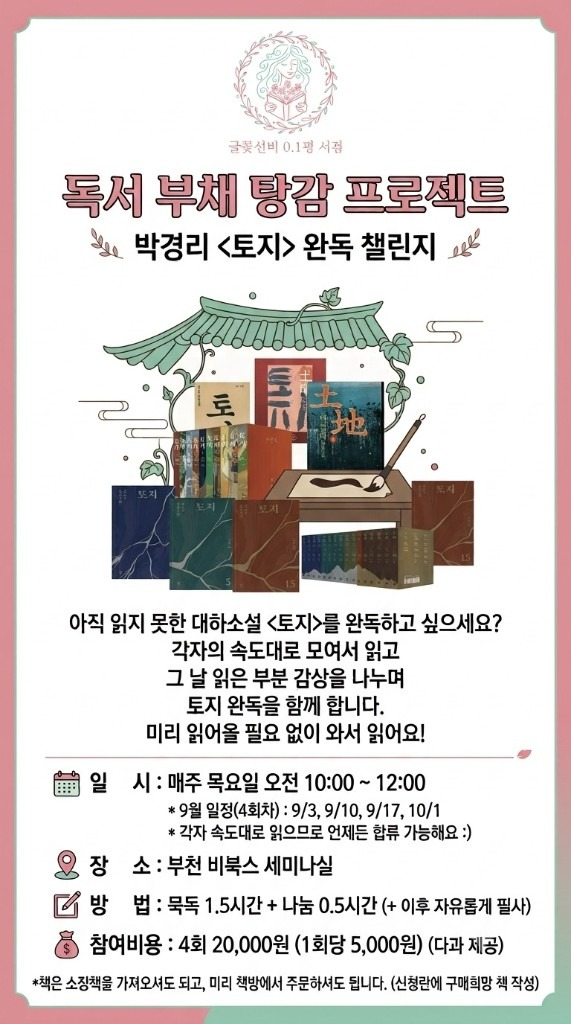
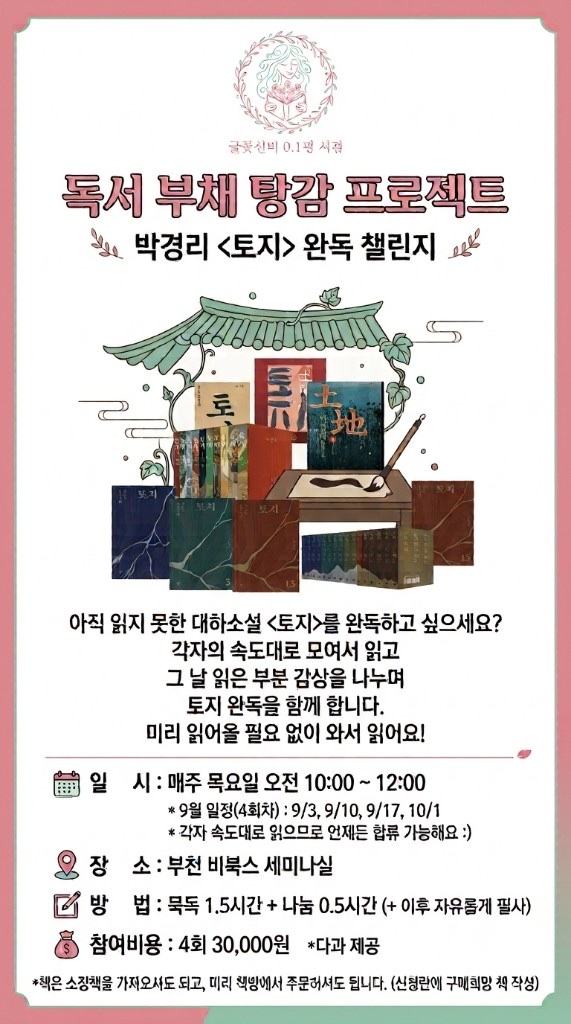
Update Toji challenge poster and fee to 30,000원.
Replace the September poster asset and sync the 4-session fee with 다과 included.

diff --git a/september.html b/september.html
@@ -3008,8 +3008,8 @@
         </div>
         <div class="moim-foot">
           <div>
-            <div class="moim-price">20,000원</div>
-            <div class="moim-cap">4회분 · 음료 포함 · 재료 준비 없음</div>
+            <div class="moim-price">30,000원</div>
+            <div class="moim-cap">4회분 · 다과 포함 · 재료 준비 없음</div>
           </div>
           <button class="btn-apply" id="apply-tojichallenge" onclick="openApply('독서 부채 탕감 프로젝트: 박경리 《토지》 완독 챌린지','tojichallenge')">신청하기</button>
         </div>
@@ -3445,8 +3445,8 @@ const MOIMS = {
     ],
     bundleApply: true,
     capacity: 8,
-    amount: 20000,
-    amountLabel: '4회분 (음료 포함)',
+    amount: 30000,
+    amountLabel: '4회분 (다과 포함)',
     hasSession: false,
     bookRequestPrompt: '도서 구매 신청 (선택)',
     bookRequestHint: '회비만 먼저 입금해 주세요. 《토지》 구매를 원하시면 아래에 적어 주시면, 도서비는 별도로 안내드립니다.',
@@ -4367,11 +4367,9 @@ async function submitApply() {
     for (let i = 0; i < sessionsToApply.length; i++) {
       const s = sessionsToApply[i];
       const baseNote = noteParts.join(' · ');
-      const note = m.bundleApply && i > 0
+      const note = m.bundleApply && (i > 0 || sessionsToApply.length === 1)
         ? [baseNote, '4회 일괄신청'].filter(Boolean).join(' · ')
-        : (m.bundleApply && sessionsToApply.length === 1
-          ? [baseNote, '4회 일괄신청'].filter(Boolean).join(' · ')
-          : baseNote);
+        : baseNote;
       await POST({
         action: 'apply',
         month: PAGE_MONTH,
